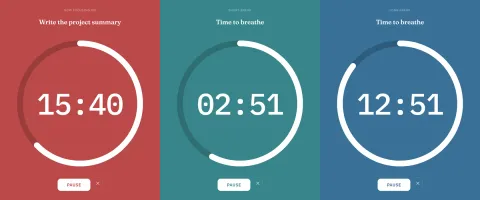
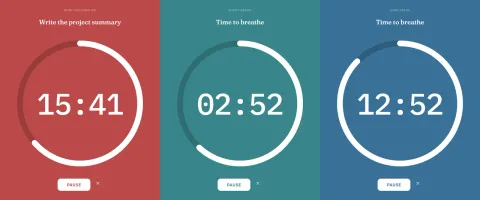
Captures: Focus Desk's cast view with the timer running; Neuro's Work mode without Wikipedia's CSS leaking, the page check scrolled cleanly; alt text follows the new popup

diff --git a/src/content/software/reddy-neuro.md b/src/content/software/reddy-neuro.md
@@ -18,7 +18,7 @@ audience: Readers who tire on busy, glaring pages
 maker: Reddy.World Enterprises
 role: "Concept, design and code: Ryan Reddy"
 order: 1
-updated: 2026-10-19
+updated: 2026-10-20
 screenshots:
   - file: neuro-overlay-after.webp
     pair: after
@@ -31,13 +31,13 @@ screenshots:
     alt: "The Wikipedia article on Atkinson Hyperlegible as Wikipedia shows it: black text on a white page with blue links, the contents on the left and the appearance settings on the right."
     caption: "The article as Wikipedia shows it, without NeuroOverlay."
   - file: neuro-overlay-work-mode.webp
-    alt: "NeuroOverlay's Work mode on the same article: the title, a dial with Gist, Key points, Structured (selected) and Full, the sections as short folded blocks, and a side column with next steps, the outline, tools (reading ruler, wait timers, read aloud) and the page score."
+    alt: "NeuroOverlay's Work mode on the same article: the title, a dial with Gist, Key points, Structured (selected) and Full, the sections as short folded blocks, and a side column with next steps, the outline and tools (reading ruler, wait timers)."
     caption: "Work mode, an early version: a quiet view of the page, with a dial for how much you see."
   - file: neuro-overlay-popup.webp
-    alt: "NeuroOverlay's popup on Wikipedia: on for en.wikipedia.org, a page score of 90 out of 100, sliders for Text (Comfortable), Colour (Dark), Clutter (fade 95%) and Focus, buttons for Work mode, Ruler and a wait timer, and the quick looks Calm, Night, Daylight and Dyslexia."
-    caption: "The popup: how much help you want, in four sliders."
+    alt: "NeuroOverlay's popup on Wikipedia: on for en.wikipedia.org, a dial for how much to show (Gist, Key points, Structured, Full) with Ruler and a wait timer, a page score of 90 out of 100, sliders for Text (Comfortable), Colour (Dark) and Clutter (fade 95%), and the quick looks Calm, Night, Daylight and Dyslexia."
+    caption: "The popup: how much to show, and how much help you want, in three sliders."
   - file: neuro-overlay-page-check.webp
-    alt: "The side panel's page check for the article: 90 out of 100 from its own checks, then five findings, from one long text block to lines of about 201 characters, each with a suggestion."
+    alt: "The side panel's page check for the article: 90 out of 100 from its own checks, how many of its COGA and W3C checks could run, then findings such as 7 paragraphs over 50 words and lines of about 208 characters, each with a suggestion and a link to the W3C pattern."
     caption: "The page check in the side panel: a quick look at how a page is built, not an official accessibility test."
 ---
 
@@ -47,7 +47,7 @@ I made it for people who tire quickly on glaring, cluttered pages, with ADHD in 
 
 ## What you can do
 
-- Set how much help you want with four sliders: Text, Colour, Clutter and Focus. Or pick a quick look: Calm, Night, Daylight or Dyslexia.
+- Set how much help you want with three sliders: Text, Colour and Clutter. Or pick a quick look: Calm, Night, Daylight or Dyslexia.
 - Choose the font (Atkinson Hyperlegible, Lexend Deca or OpenDyslexic), the line length, and the space between lines, letters and words.
 - Read in a soft dark theme such as Velvet Olive, or in a calm, paper-like light one.
 - Turn on a reading ruler, or set a wait timer of 30 seconds, 1 minute or 2 minutes.

diff --git a/src/content/software/focus-desk.md b/src/content/software/focus-desk.md
@@ -14,7 +14,7 @@ audience: Anyone who works in focus blocks
 maker: Reddy.World Enterprises
 role: "Concept, design and code: Ryan Reddy"
 order: 2
-updated: 2026-10-17
+updated: 2026-10-20
 screenshots:
   - file: focus-desk-three-sessions.webp
     alt: "Three Focus Desk screens side by side in fullscreen. A red focus session on 'Write the project summary' with 15:40 left, a teal short break with 02:51 left, and a blue long break with 12:51 left. Each ring shows the time remaining."
@@ -23,7 +23,7 @@ screenshots:
     alt: "Focus Desk during a focus session: the timer at 15:42 with a Pause button, 'Now focusing on: Write the project summary', a task list with three tasks, and panels for noise, YouTube and SoundCloud below."
     caption: "A focus session nine minutes in, with the task list and the sound panels. The tasks are examples."
   - file: focus-desk-cast-view.webp
-    alt: "Focus Desk's cast view at 1280 by 800: a large 25:00 timer on the left and the three tasks on the right, with the settings and sound panels hidden."
+    alt: "Focus Desk's cast view at 1280 by 800: a running 15:41 timer on the left and the three tasks on the right, with the settings and sound panels hidden."
     caption: "Cast view for a 1280 × 800 wall display: just the timer and the tasks."
   - file: focus-desk-phone.webp
     alt: "Focus Desk on a phone during a focus session: the ring at 15:42 with Pause, Reset and Skip buttons, and the task list below."
